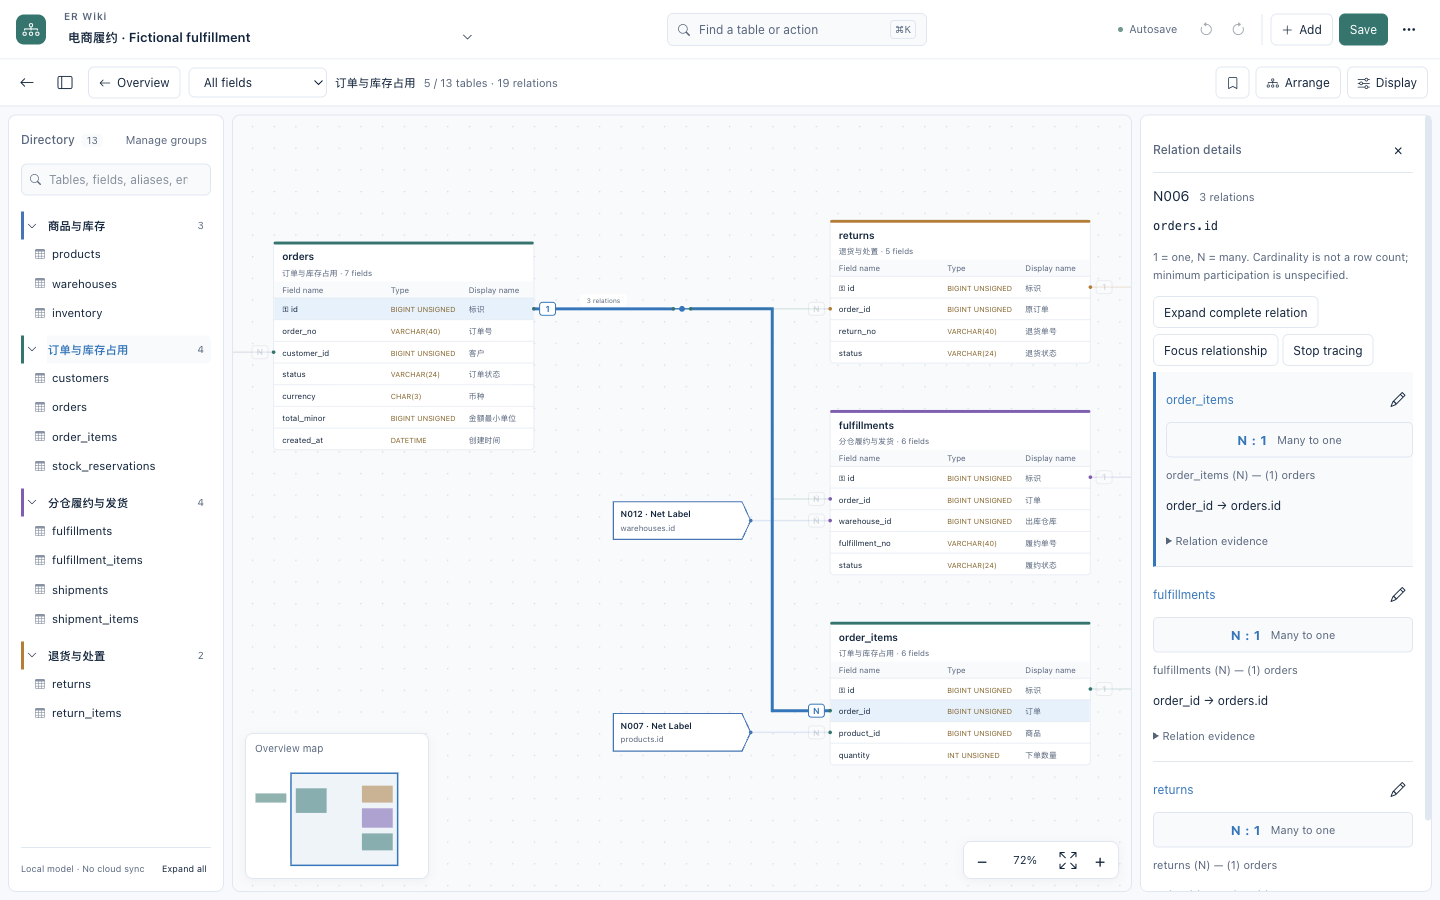
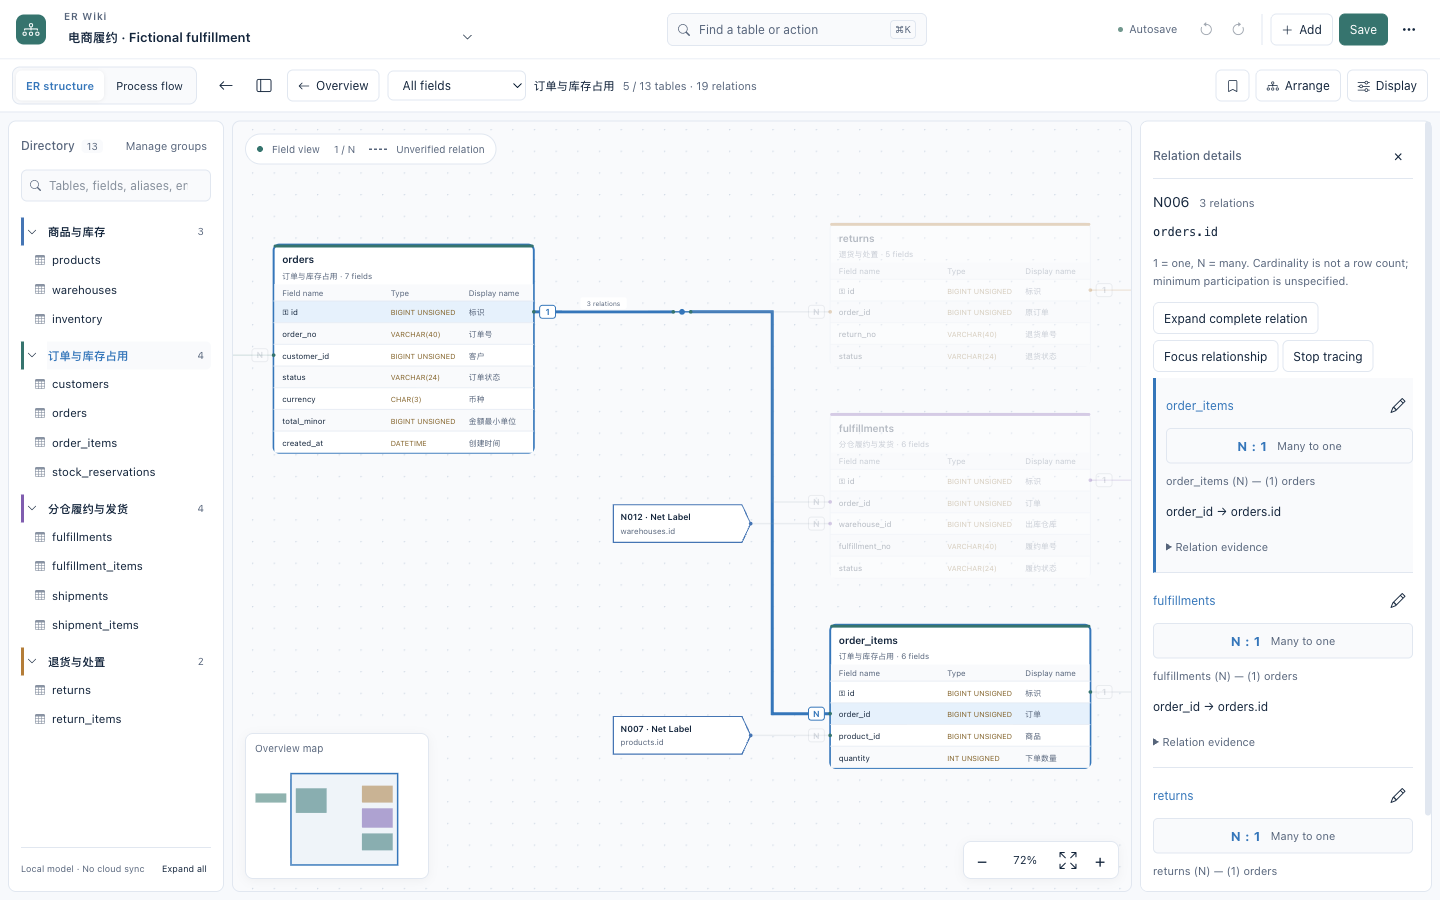
docs: showcase the packaged ER workbench for v0.2.0

diff --git a/docs/USER_GUIDE.md b/docs/USER_GUIDE.md
@@ -33,6 +33,11 @@ custom types and the timeline remain available in this catalogue.
 选中字段会定位到实际表卡片，表详情中的“定位到画布”只调整视角。
 
 - **All tables** includes every table, including isolated tables.
+- Zoomed-out views emphasize table names and field counts. Click a table to read it
+  at a useful scale; **Display → Emphasize table names when zoomed out** disables this
+  presentation if you prefer field rows at every scale. It never hides actual tables.
+- The table inspector lists searchable fields, display names, types and enums.
+  Select a field to locate it; choose a related table entry to trace that relationship.
 - **Domain overview** summarizes domains; open one to inspect its tables.
 - **Related tables** and **All fields** inspect a table and its neighboring relations.
 - Search matches table/field names, aliases, comments and enum values/meanings.
@@ -51,6 +56,8 @@ custom types and the timeline remain available in this catalogue.
 总图、领域、表和字段可以逐层查看。平移缩放、选择对象和书签按模型独立记忆，
 切换模型或重启后恢复，不会更新模型保存时间。书签最多 50 个，视图缓存最多 60 个。
 目录左侧的小箭头只折叠目录列表，不会改变 ER 图的表数量；点击分组名称才会进入该领域。
+缩小时表卡片突出表名与字段数，放大后恢复字段行。点击总览卡片可放大阅读，不删除其他表。
+“显示 → 缩小时突出表名”可以关闭分级显示；右侧表详情支持筛选字段、查看中文名、枚举和关联关系。
 滚轮以鼠标指向的位置为中心缩放；右下角比例按钮恢复 100%，适应窗口按钮查看当前范围全图。
 左下角小地图支持点击、拖动定位，聚焦后可用方向键移动、Home 返回全图；可在“显示”中关闭。
 “显示 → 布局方向”可选自动、横向、纵向，按模型和书签记忆；旧版自动布局的阅读位置仍保留。
@@ -82,6 +89,17 @@ the annotations without editing the model; diagram exports follow this setting.
 `?` 表示未定义，混合表示同一端口存在不同基数；不推断最少参与条数，也不代表真实数据量或物理约束。
 线束的“几条关系”与基数分开显示。点击分支、端点或 Net Label 可追踪单条关系，
 右侧“定位关系”会将两端表、路径和完整标签纳入视野。可在“显示”中关闭标记，导出也遵循该设置。
+组内连线使用领域颜色，跨领域连线保持中性色；选中关系会突出对应路径及两端表，其他对象降低强调。
+
+## Optional process context / 辅助流程
+
+The **ER structure / Process flow** switcher keeps the ER diagram as the primary
+workspace. Explicit scenarios link activities to table fields; selecting a mapping
+returns to ER. Process configuration uses JSON, without a BPMN editor or execution
+engine. See [process-view boundaries](PROCESS_VIEWS.md). There is no mixed mode.
+
+流程图只作为业务理解的辅助入口；有显式配置时才能展示，不从外键自动生成时序。
+动作可关联表和字段，仍复用原表编辑器。流程配置暂不进入 ER 撤销栈。
 
 ## Save and recover / 保存与恢复
 
@@ -100,7 +118,7 @@ snapshots per model, with an overall limit of 200. A successful new backup may
 remove older backups above those limits. These are not off-device backups;
 export JSON to your own backup location for disaster recovery.
 
-新格式含 `format: "er-wiki"` 和 `schemaVersion: 1`。旧 drawDB JSON 仍可导入。
+新格式含 `format: "er-wiki"` 和 `schemaVersion: 2`，保留流程定义。旧 drawDB JSON 与 v1 文件仍可导入。
 遇到高于当前支持版本的文件会拒绝导入并提示升级，不会尝试破坏性降级。
 
 ## Export / 导出
@@ -111,6 +129,7 @@ does not navigate the workspace. SVG preserves scalable geometry; PNG is capped
 at 8192 pixels per side and approximately 24 million pixels to limit memory use.
 
 “导出 ER 图”支持当前视图、当前领域或全部表总图；纯图导出不带工具按钮，也不改变阅读位置。
+当前视图导出遵循缩放分级显示；领域和完整总图导出包含相应投影的字段内容。
 大图优先选择 SVG。SQL 导出沿用上游能力，结果应人工检查，不会自动执行到数据库。
 
 ## Updates and feedback / 更新与反馈

diff --git a/docs/VERIFICATION-0.2.0.md b/docs/VERIFICATION-0.2.0.md
@@ -1,0 +1,30 @@
+# v0.2.0 verification
+
+Recorded 2026-09-12. Runtime implementation checkpoint: `b2cf209`.
+Only the fictional 13-table / 19-relation fulfillment model was used.
+
+- 49 deterministic Node tests passed, including semantic summary boundaries,
+  title wrapping, relationship direction/color and previous persistence/security checks.
+- Real Electron ER checks passed: 13-table coverage, summary/detail preference,
+  unchanged layout geometry on presentation changes, summary-click focus,
+  field filtering, display names, selected field and individual relationship tracing.
+- Existing desktop checks passed: cursor zoom, minimap, direction/reload,
+  languages/native menus, model switching, centered editing and stable text-edit geometry,
+  local backup restore, SQL import, offline Monaco and SVG/PNG export.
+- The packaged v0.2.0 process companion passed its focused check: ER/flow switching,
+  independent reading position, field mapping, table editor, config validation/save,
+  JSON v2 export, copy/reload and legacy mixed-preference migration.
+- Desktop layouts were checked at 1440px and 980px widths. This is a desktop app;
+  no mobile/browser release or acceptance is claimed.
+- Packaged screenshots verify the runtime source hashes and the original tables,
+  fields, groups, relationships and save timestamp before/after capture.
+  See `images/fulfillment-snapshot.json` for provenance.
+- jscpd 5.2.0 scanned the original EdaScene/EdaInspector/EdaWorkspace and extracted
+  presentation components at 6 lines / 80 tokens: no clones detected.
+- Local targeted source and built-renderer publication scans found no matches.
+  This is not a claim that a pattern scan proves absence of every private fact.
+
+GitHub CI and release workflow results are separate live records. The macOS
+artifact is ad-hoc signed, not Developer ID signed/notarized. Windows/Linux are
+not release-validated. No production workflow, database write or business-row
+sample was part of these checks.

diff --git a/docs/KNOWN_LIMITATIONS.md b/docs/KNOWN_LIMITATIONS.md
@@ -1,6 +1,6 @@
 # Known limitations
 
-- The application is a local preview. The desktop interface supports Chinese and English;
+- The application is local-first. The desktop interface supports Chinese and English;
   model content is intentionally not translated. Less-used upstream dialogs may retain upstream terminology.
 - Windows/Linux packaging has not been release-validated.
 - Default packages are ad-hoc signed. Developer ID signing and notarization require
@@ -13,6 +13,10 @@
 - Focused desktop workflows have checks; exhaustive editing/SQL dialect/platform
   regression acceptance is not implied by those checks.
 - Reading bookmarks are local preferences, not part of model JSON exports.
+- At overview scale, table summaries replace field rows visually, without changing
+  table or relationship coverage. Zoom in or disable semantic summaries under Display.
+- Process views are optional explicit definitions, not generated execution flows.
+  Process configuration is JSON-based and does not participate in the ER undo stack.
 - Backups are local and bounded by retention; they do not replace off-device backups.
 - The local publication guard is a targeted pattern/path check, not proof that
   no secret or private fact exists. Human review and a maintained secret scanner

diff --git a/docs/images/README.md b/docs/images/README.md
@@ -1,8 +1,9 @@
 # Desktop demo snapshots
 
 The fulfillment PNGs are unmodified screenshots of the packaged ER Wiki Community
-desktop app. They show the all-table overview, orders table editor and quick search in
-English and Chinese. The SVG is exported using that same app's Export ER diagram
+desktop app. They show the all-table overview, ER field workspace, domain drilldown,
+relationship tracing, orders table editor and quick search in English and Chinese,
+plus the dark ER workspace. The SVG is exported using that same app's Export ER diagram
 action, not drawn by a second script.
 
 `fulfillment-snapshot.json` records the application version, renderer-source hash,
